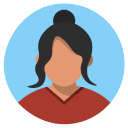
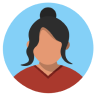
fix layout

diff --git a/src/components/layouts/NavbarContent.jsx b/src/components/layouts/NavbarContent.jsx
@@ -7,34 +7,42 @@ export default function NavbarContent() {
 
   return (
     <>
-      {/* Toggler */}
-      <button className="btn px-3 bg-darkblue" type="button" data-bs-toggle="offcanvas" data-bs-target="#offcanvasWithBothOptions" aria-controls="offcanvasWithBothOptions" aria-label="Toggle navigation">
-        {/* <span className="navbar-toggler-icon"></span> */}
-        <i className="bi bi-chevron-right"></i>
-      </button>
-      {/* Brand */}
-      <h4 className=" fw-bold" href="#" id="navbar-title">
-        HOMEMATH
-      </h4>
-      {/* User */}
-      {isMateriPage ? (
-        <div className="d-flex flex-column justify-content-center">
-          <h6 className="mb-0 fw-bold text-end">SPLTV</h6>
-          <p className="mb-0 text-end" style={{ fontSize: '14px' }}>
-            Sistem Persamaan Linear Tiga Variabel
-          </p>
+      <div className="row w-100">
+        <div className="col-4">
+          {/* Toggler */}
+          <button className="btn px-3 bg-darkblue" type="button" data-bs-toggle="offcanvas" data-bs-target="#offcanvasWithBothOptions" aria-controls="offcanvasWithBothOptions" aria-label="Toggle navigation">
+            {/* <span className="navbar-toggler-icon"></span> */}
+            <i className="bi bi-chevron-right"></i>
+          </button>
         </div>
-      ) : (
-        <div className="d-flex">
-          <img className="me-2" src="/avatar-icon.png" width={50} alt="" />
-          <div className="d-none d-md-flex flex-column justify-content-center">
-            <h6 className="mb-0 fw-bold">Betty Agustina</h6>
-            <p className="mb-0" style={{ fontSize: '14px' }}>
-              Tadris Matematika
-            </p>
-          </div>
+        <div className="col-4 text-center">
+          {/* Brand */}
+          <h4 className=" fw-bold" href="#" id="navbar-title">
+            HOMEMATH
+          </h4>
         </div>
-      )}
+        <div className="col-4 d-flex justify-content-end">
+          {/* User */}
+          {isMateriPage ? (
+            <div className="d-flex flex-column justify-content-center">
+              <h6 className="mb-0 fw-bold text-end">SPLTV</h6>
+              <p className="mb-0 text-end" style={{ fontSize: '14px' }}>
+                Sistem Persamaan Linear Tiga Variabel
+              </p>
+            </div>
+          ) : (
+            <div className="d-flex">
+              <img className="me-2" src="/avatar-icon.png" style={{ width: '40px', height: '40px' }} alt="" />
+              <div className="d-none d-md-flex flex-column justify-content-center">
+                <h6 className="mb-0 fw-bold">Betty Agustina</h6>
+                <p className="mb-0" style={{ fontSize: '14px' }}>
+                  Tadris Matematika
+                </p>
+              </div>
+            </div>
+          )}
+        </div>
+      </div>
 
       {/* Offcanvas */}
       <div className="offcanvas offcanvas-start bg-darkblue" data-bs-scroll="true" tabIndex="-1" id="offcanvasWithBothOptions" aria-labelledby="offcanvasWithBothOptionsLabel">

diff --git a/src/pages/Home.jsx b/src/pages/Home.jsx
@@ -1,24 +1,19 @@
 import { Link } from 'react-router-dom';
 import NextButton from '../components/buttons/NextButton';
-import Navbar from '../components/layouts/Navbar';
 import '../styles/Home.css';
+import Main from '../components/layouts/Main';
 
 export default function Home() {
   return (
-    <>
-      <div className="sticky-top bg-white">
-        <div className="container">
-          <Navbar />
-        </div>
-      </div>
-      <section className="container bg-darkblue" id="hero">
+    <Main>
+      <section className=" bg-darkblue" id="hero">
         <div className="row p-5">
           <div className="col-7 pe-4 d-flex flex-column justify-content-between">
             <h1 className="py-3 fw-bold lh-base" id="title">
               SISTEM PERSAMAAN LINEAR TIGA VARIABEL <br />
               (SPLTV)
             </h1>
-            <p className="fw-light">
+            <p className="fw-light rounded-4 p-2" style={{ backgroundColor: '#14141450' }}>
               Ingatkah kalian pada materi program linear atau Sistem Persamaan Linear Dua Variabel yang telah kalian dapatkan pada jenjang SLTP? Pada materi tersebut, kalian telah mengenal variabel, koefisien, dan konstanta.
               <br />
               Pembelajaran kali ini, kalian akan diajak untuk mempelajari materi terkait dengan variabel yang tidak hanya terdiri satu atau dua variabel, melainkan tiga variabel...
@@ -36,8 +31,8 @@ export default function Home() {
           </div>
         </div>
         <div className="p-5 pt-0">
-          <div className="row p-4 menu-wrapper rounded-4 justify-content-around gap-3">
-            <div className="col-1 ">
+          <div className="row p-4 menu-wrapper rounded-4 justify-content-around gap-2">
+            <div className="col-auto">
               <NextButton link="/peta-konsep" />
             </div>
             <Link to="/peta-konsep" className="col rounded-1 mx-3 menu d-flex justify-content-center align-items-center">
@@ -55,6 +50,6 @@ export default function Home() {
           </div>
         </div>
       </section>
-    </>
+    </Main>
   );
 }

diff --git a/src/components/layouts/Main.jsx b/src/components/layouts/Main.jsx
@@ -1,16 +1,16 @@
-import { useLocation } from 'react-router-dom';
 import Navbar from './Navbar';
 
 export default function Main(props) {
-  const location = useLocation();
-  const isMateriPage = location.pathname.includes('/materi/');
-
   return (
     <>
+      <div className="sticky-top bg-white shadow-sm">
+        <div className="container">
+          <Navbar />
+        </div>
+      </div>
       <div className="main container">
-        <Navbar />
         {/* eslint-disable-next-line react/prop-types */}
-        <div className="p-5">{props.children}</div>
+        <div className="py-4">{props.children}</div>
       </div>
     </>
   );

diff --git a/src/components/buttons/NextButton.jsx b/src/components/buttons/NextButton.jsx
@@ -3,8 +3,8 @@ import { Link } from 'react-router-dom';
 export default function NextButton(link) {
   return (
     <>
-      <Link to={link.link} className="btn btn-primary bg-darkblue py-2  rounded-1" id="next-page-button">
-        <img src="./next-page-icon.png" className="img-fluid" alt="" />
+      <Link to={link.link} className="">
+        <img src="./next-page-icon.png" className="rounded img-fluid" alt="" />
       </Link>
     </>
   );

diff --git a/src/components/layouts/Navbar.jsx b/src/components/layouts/Navbar.jsx
@@ -3,7 +3,7 @@ import NavbarContent from './NavbarContent';
 export default function Navbar() {
   return (
     <>
-      <nav className="navbar bg-white py-3 sticky-top ">
+      <nav className="navbar bg-white py-3 sticky-top justify-content-center">
         <NavbarContent />
       </nav>
     </>

diff --git a/src/index.css b/src/index.css
@@ -18,17 +18,7 @@ body {
   color: #141414;
 }
 
-.main {
-  min-height: 100vh;
-  width: 100%;
-  /* overflow: hidden; */
-}
-
 .bg-darkblue {
   color: #fff;
   background-color: #142237;
-}
-
-#next-page-button:hover {
-  background-color: #2c3a50;
 }

diff --git a/src/styles/Home.css b/src/styles/Home.css
@@ -1,5 +1,8 @@
-.container#hero {
-  background-color: #2c3a50;
+#hero {
+  background-image: url('hero-background.png');
+  background-position: center;
+  background-repeat: no-repeat;
+  background-size: cover;
 }
 
 section#hero {
